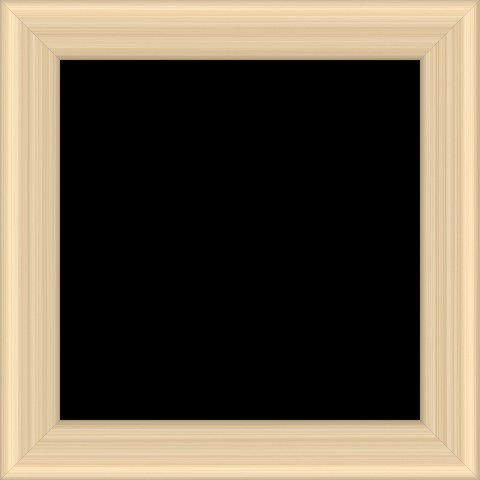
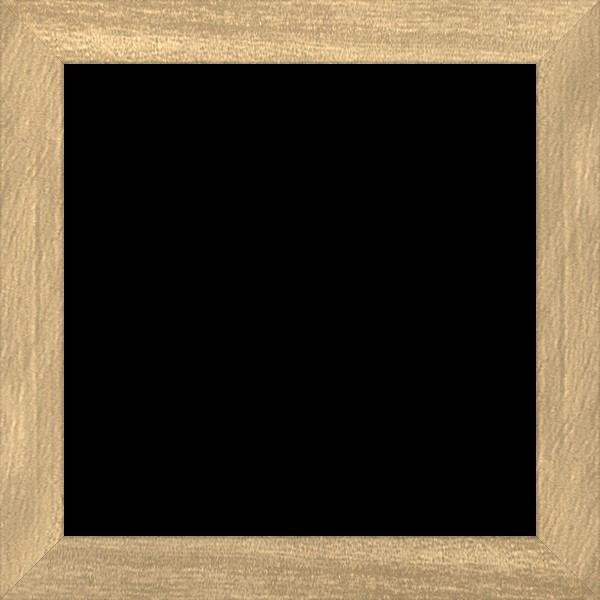
Marco y paspartú con textura y escala reales

diff --git a/index.html b/index.html
@@ -1578,9 +1578,9 @@ body.tema-pf .ob-cap { text-align: center; }
 .ob-nota { font-size: .7rem; color: var(--ink-faint); }
 .ob-compra { margin-top: 1.2rem !important; }
 .ob-img img { transition: padding .5s, background .5s, box-shadow .5s; }
-.ob-img.kiri { justify-items: center; align-items: center; padding: 3vw; background: radial-gradient(120% 90% at 25% 10%, #FBF8F2 0%, #F1EBE1 60%, #E7DFD2 100%); }
-.ob-img.kiri img { padding: 7%; background: #FCFBF8; border: 16px solid #DCC39C; border-image: url(img/detalles/kiri-marco.jpg) 60 stretch; box-shadow: inset 0 0 0 1px rgba(60,45,25,.1), 0 14px 30px -10px rgba(40,30,15,.35); max-height: 74vh; width: auto; max-width: 100%; object-fit: fill; }
-.ob-img.kiri.dos img { border-width: 11px; padding: 6%; }
+.ob-img.kiri { justify-items: center; align-items: center; container-type: inline-size; background: #efede8; }
+.ob-img.kiri img { box-sizing: border-box; border-style: solid; border-color: #CDAF82; border-image: url(img/detalles/kiri-marco.jpg) 64 stretch; background: linear-gradient(#FBFAF7,#FBFAF7) -2px -2px / calc(100% + 4px) calc(100% + 4px) no-repeat content-box, linear-gradient(rgba(70,60,45,.22),rgba(70,60,45,.22)) -3px -3px / calc(100% + 6px) calc(100% + 6px) no-repeat content-box, url(img/detalles/paspartu.jpg) 0 0 / 150px auto repeat padding-box #F5F3EE; background-clip: padding-box; box-shadow: inset 0 4px 7px -3px rgba(40,30,15,.28), inset 3px 0 6px -4px rgba(40,30,15,.18), 0 16px 30px -14px rgba(30,22,12,.45), 0 2px 4px rgba(30,22,12,.12); padding: 13.5cqw; border-width: 4.8cqw; max-height: 76vh; width: auto; max-width: 100%; object-fit: fill; }
+.ob-img.kiri.dos img { padding: 6.5cqw; border-width: 2.4cqw; }
 .ob-vendida { font-size: .76rem; color: var(--ink-faint); }
 
 /* ═════════ PORTFOLIO: verde crudo, textura de papel ═════════ */
@@ -1820,8 +1820,8 @@ img { pointer-events: auto; }
 .st-card *, .dest * { pointer-events: none; }
 .st-card, .dest { pointer-events: auto; }
 .st-card[hidden] { display: none; }
-.st-img { aspect-ratio: 4 / 5; background: #efede8; display: flex; align-items: center; justify-content: center; padding: 9%; overflow: hidden; }
-.st-img img { max-width: 100%; max-height: 100%; width: auto; height: auto; display: block; box-sizing: border-box; padding: 7%; background: #FCFBF8; border: 10px solid #DCC39C; border-image: url(img/detalles/kiri-marco.jpg) 60 stretch; box-shadow: inset 0 0 0 1px rgba(60,45,25,.1), 0 12px 26px -12px rgba(40,30,15,.4); transition: transform .8s cubic-bezier(.2,.7,.2,1); }
+.st-img { aspect-ratio: 4 / 5; background: #efede8; display: flex; align-items: center; justify-content: center; padding: 7%; overflow: hidden; container-type: size; }
+.st-img img { max-width: 100%; max-height: 100%; width: auto; height: auto; display: block; box-sizing: border-box; border-style: solid; border-color: #CDAF82; border-image: url(img/detalles/kiri-marco.jpg) 64 stretch; background: linear-gradient(#FBFAF7,#FBFAF7) -2px -2px / calc(100% + 4px) calc(100% + 4px) no-repeat content-box, linear-gradient(rgba(70,60,45,.22),rgba(70,60,45,.22)) -3px -3px / calc(100% + 6px) calc(100% + 6px) no-repeat content-box, url(img/detalles/paspartu.jpg) 0 0 / 150px auto repeat padding-box #F5F3EE; background-clip: padding-box; box-shadow: inset 0 4px 7px -3px rgba(40,30,15,.28), inset 3px 0 6px -4px rgba(40,30,15,.18), 0 16px 30px -14px rgba(30,22,12,.45), 0 2px 4px rgba(30,22,12,.12); padding: 15cqw; border-width: 5.4cqw; transition: transform .8s cubic-bezier(.2,.7,.2,1); }
 .st-card:hover .st-img img { transform: scale(1.04); }
 .st-t { margin-top: .8rem; font-size: .98rem; letter-spacing: -0.01em; }
 .st-m { display: flex; justify-content: space-between; gap: .6rem; margin-top: .3rem; font-size: .64rem; color: var(--ink-light); }
